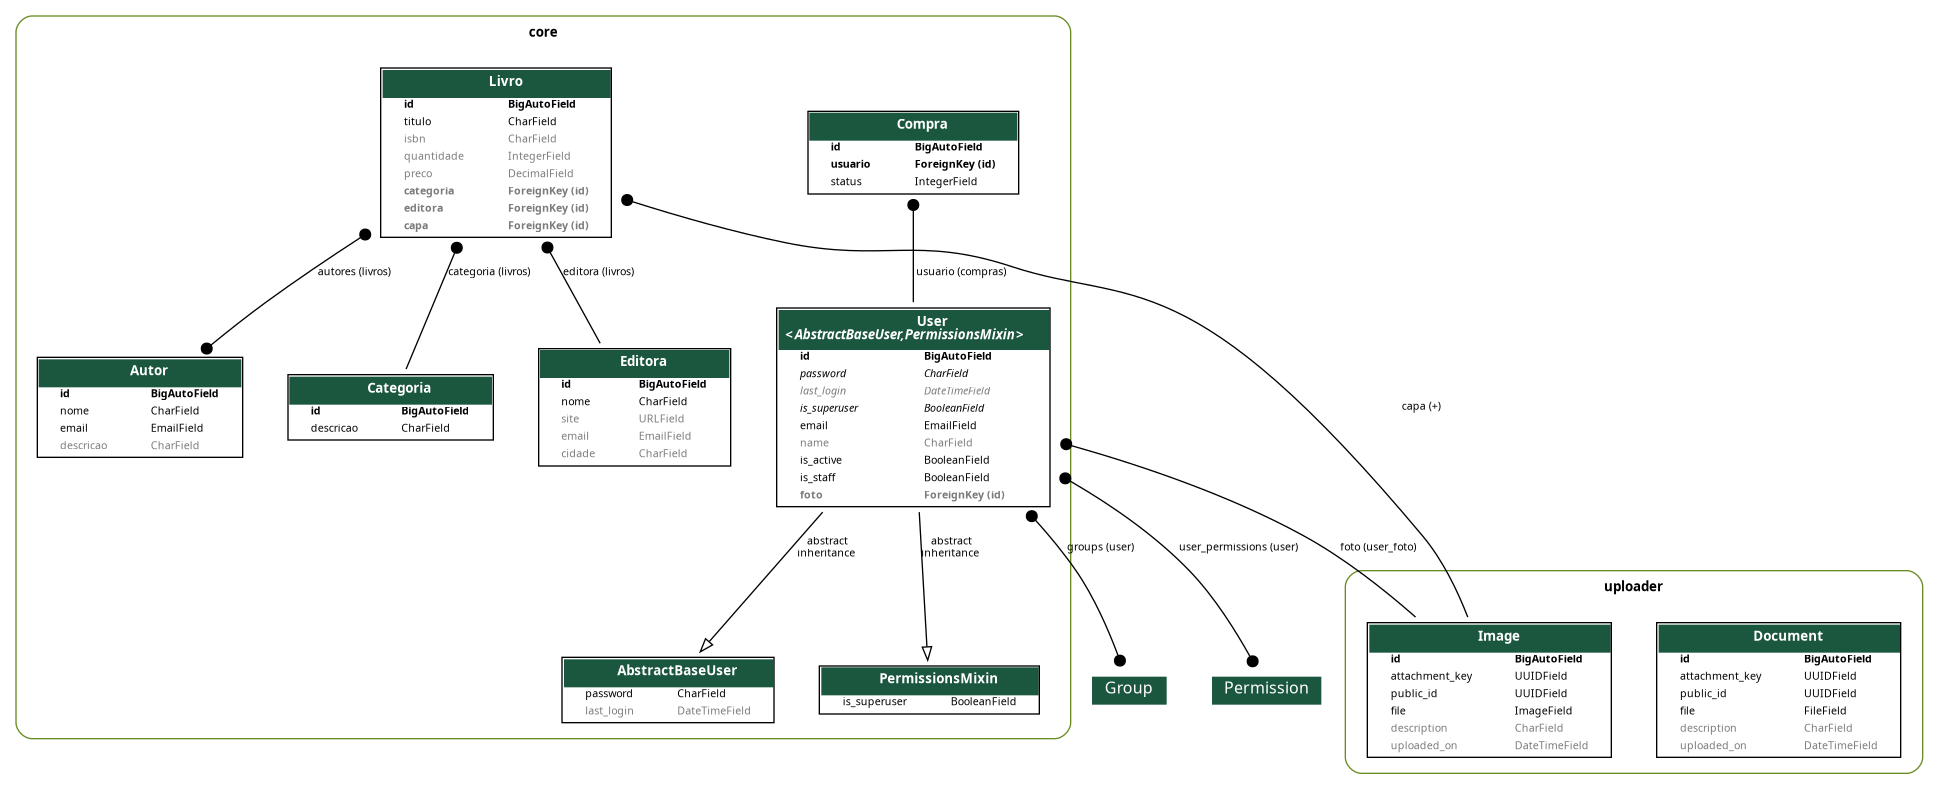
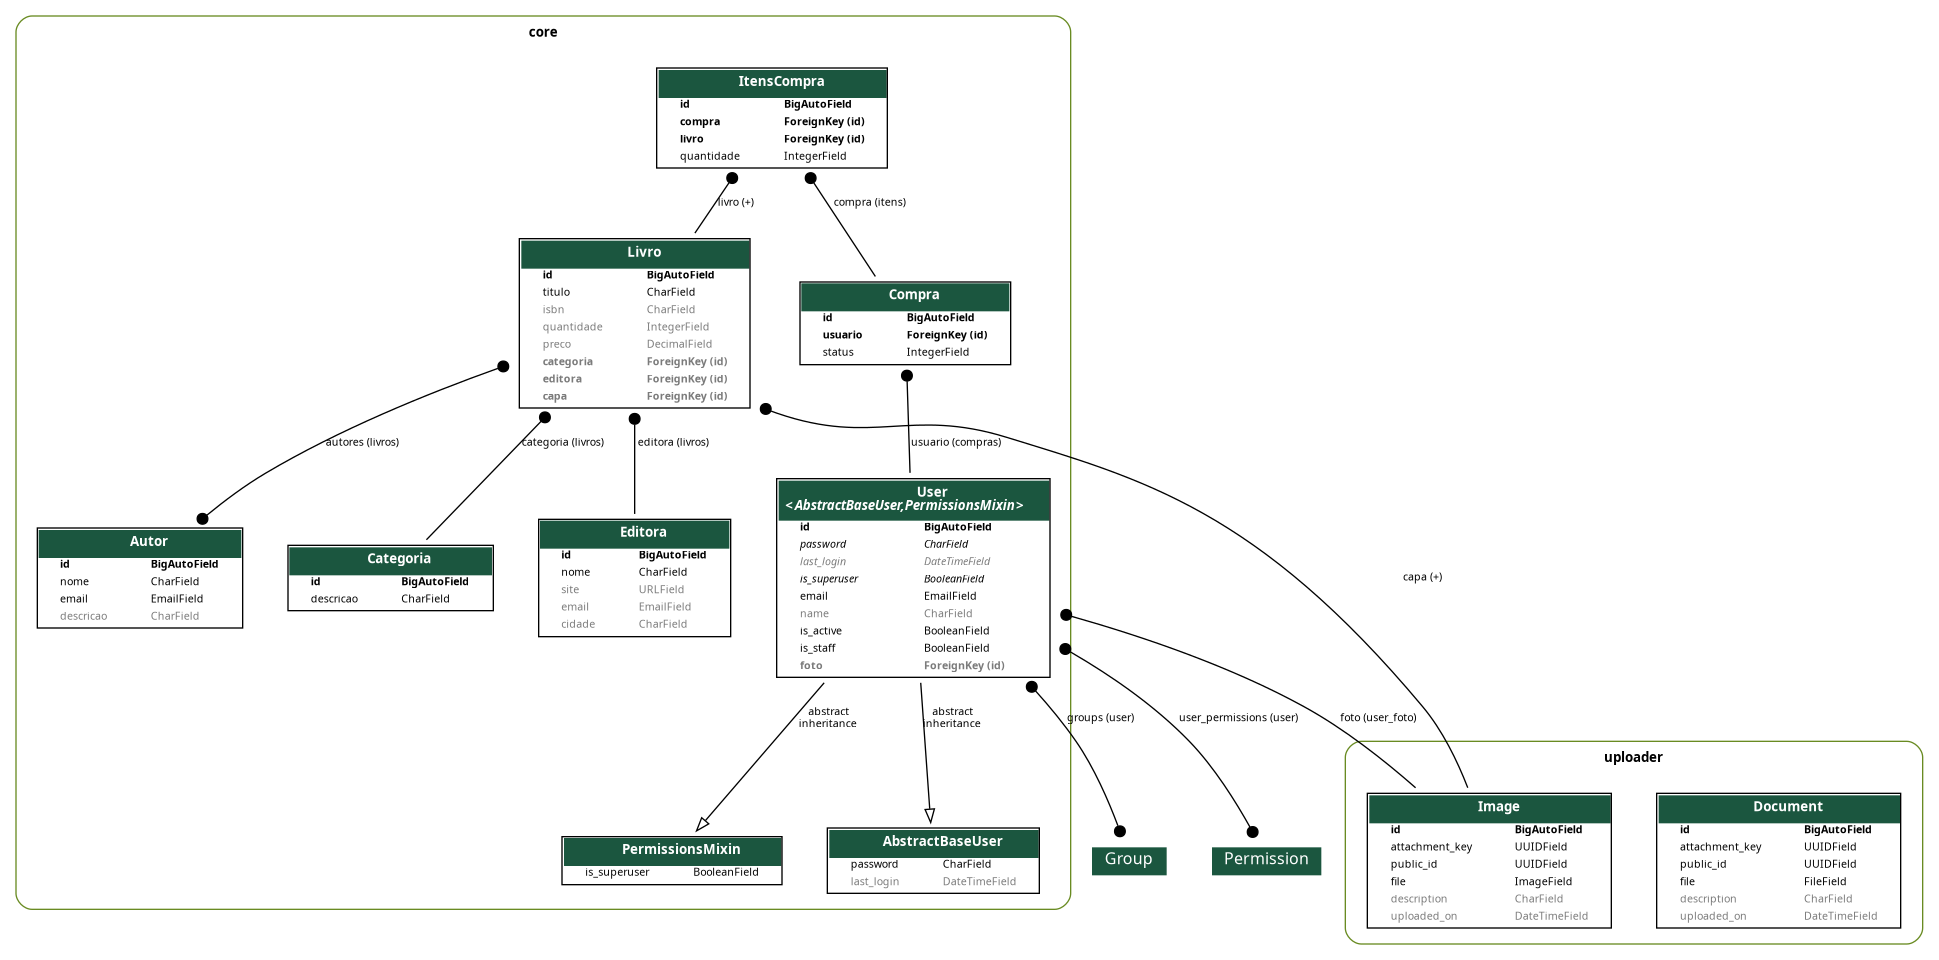
feat: criação dos itens da compra

diff --git a/core/migrations/0021_itenscompra.py b/core/migrations/0021_itenscompra.py
@@ -1,0 +1,23 @@
+# Generated by Django 5.2.13 on 2026-06-16 17:30
+
+import django.db.models.deletion
+from django.db import migrations, models
+
+
+class Migration(migrations.Migration):
+
+    dependencies = [
+        ('core', '0020_compra'),
+    ]
+
+    operations = [
+        migrations.CreateModel(
+            name='ItensCompra',
+            fields=[
+                ('id', models.BigAutoField(auto_created=True, primary_key=True, serialize=False, verbose_name='ID')),
+                ('quantidade', models.IntegerField(default=1)),
+                ('compra', models.ForeignKey(on_delete=django.db.models.deletion.CASCADE, related_name='itens', to='core.compra')),
+                ('livro', models.ForeignKey(on_delete=django.db.models.deletion.PROTECT, related_name='+', to='core.livro')),
+            ],
+        ),
+    ]

diff --git a/core/admin.py b/core/admin.py
@@ -2,7 +2,7 @@ from django.contrib.admin import ModelAdmin, register
 from django.contrib.auth.admin import UserAdmin as BaseUserAdmin
 from django.utils.translation import gettext_lazy as _
 
-from core.models import Autor, Categoria, Compra, Editora, Livro, User
+from core.models import Autor, Categoria, Compra, ItensCompra, Editora, Livro, User
 
 
 @register(Autor)
@@ -27,6 +27,11 @@ class CategoriaAdmin(ModelAdmin):
 class CompraAdmin(ModelAdmin):
     list_display = ('usuario', 'status')
     ordering = ('usuario', 'status')
+    list_per_page = 10
+
+
+@register(ItensCompra)
+class ItensCompraAdmin(ModelAdmin):
     list_per_page = 10
 
 

diff --git a/core/models/compra.py b/core/models/compra.py
@@ -1,5 +1,6 @@
 from django.db import models
 
+from .livro import Livro
 from .user import User
 
 
@@ -12,3 +13,9 @@ class Compra(models.Model):
 
     usuario = models.ForeignKey(User, on_delete=models.PROTECT, related_name='compras')
     status = models.IntegerField(choices=StatusCompra.choices, default=StatusCompra.CARRINHO)
+
+
+class ItensCompra(models.Model):
+    compra = models.ForeignKey(Compra, on_delete=models.CASCADE, related_name='itens')
+    livro = models.ForeignKey(Livro, on_delete=models.PROTECT, related_name='+')
+    quantidade = models.IntegerField(default=1)

diff --git a/core/models/__init__.py b/core/models/__init__.py
@@ -1,6 +1,6 @@
 from .user import User
 from .autor import Autor
 from .categoria import Categoria
-from .compra import Compra
+from .compra import Compra, ItensCompra
 from .editora import Editora
 from .livro import Livro